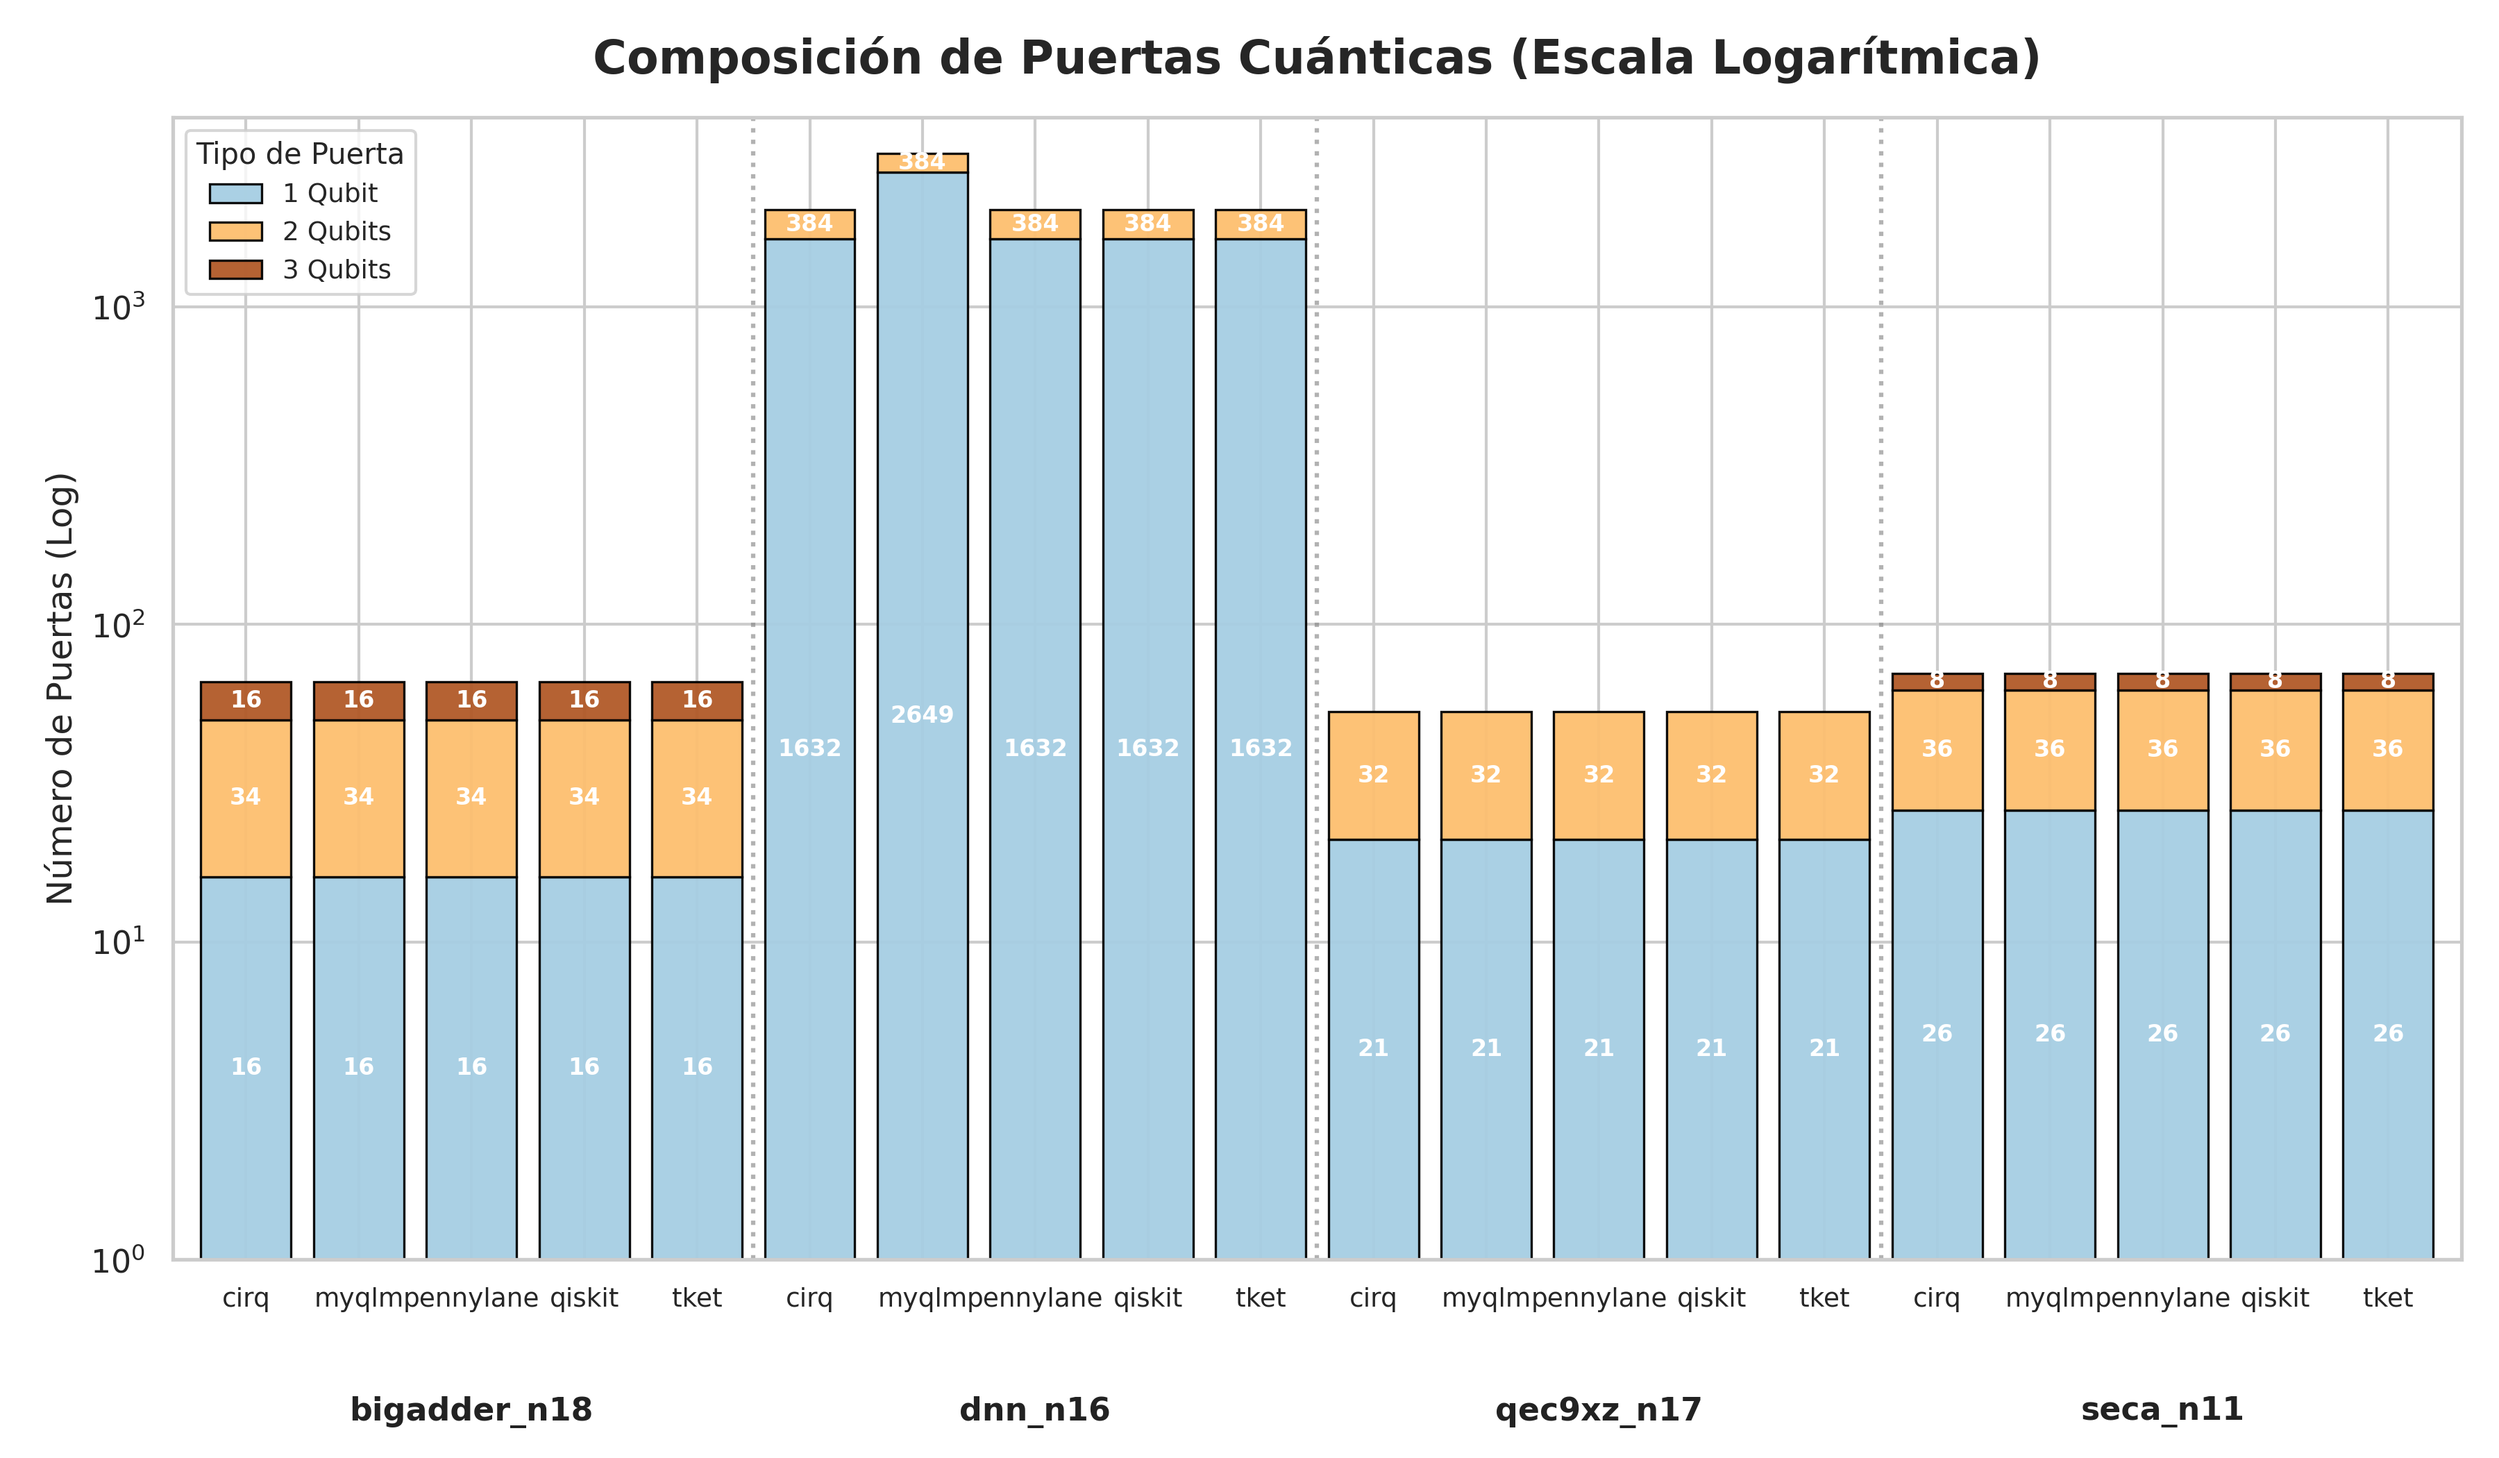
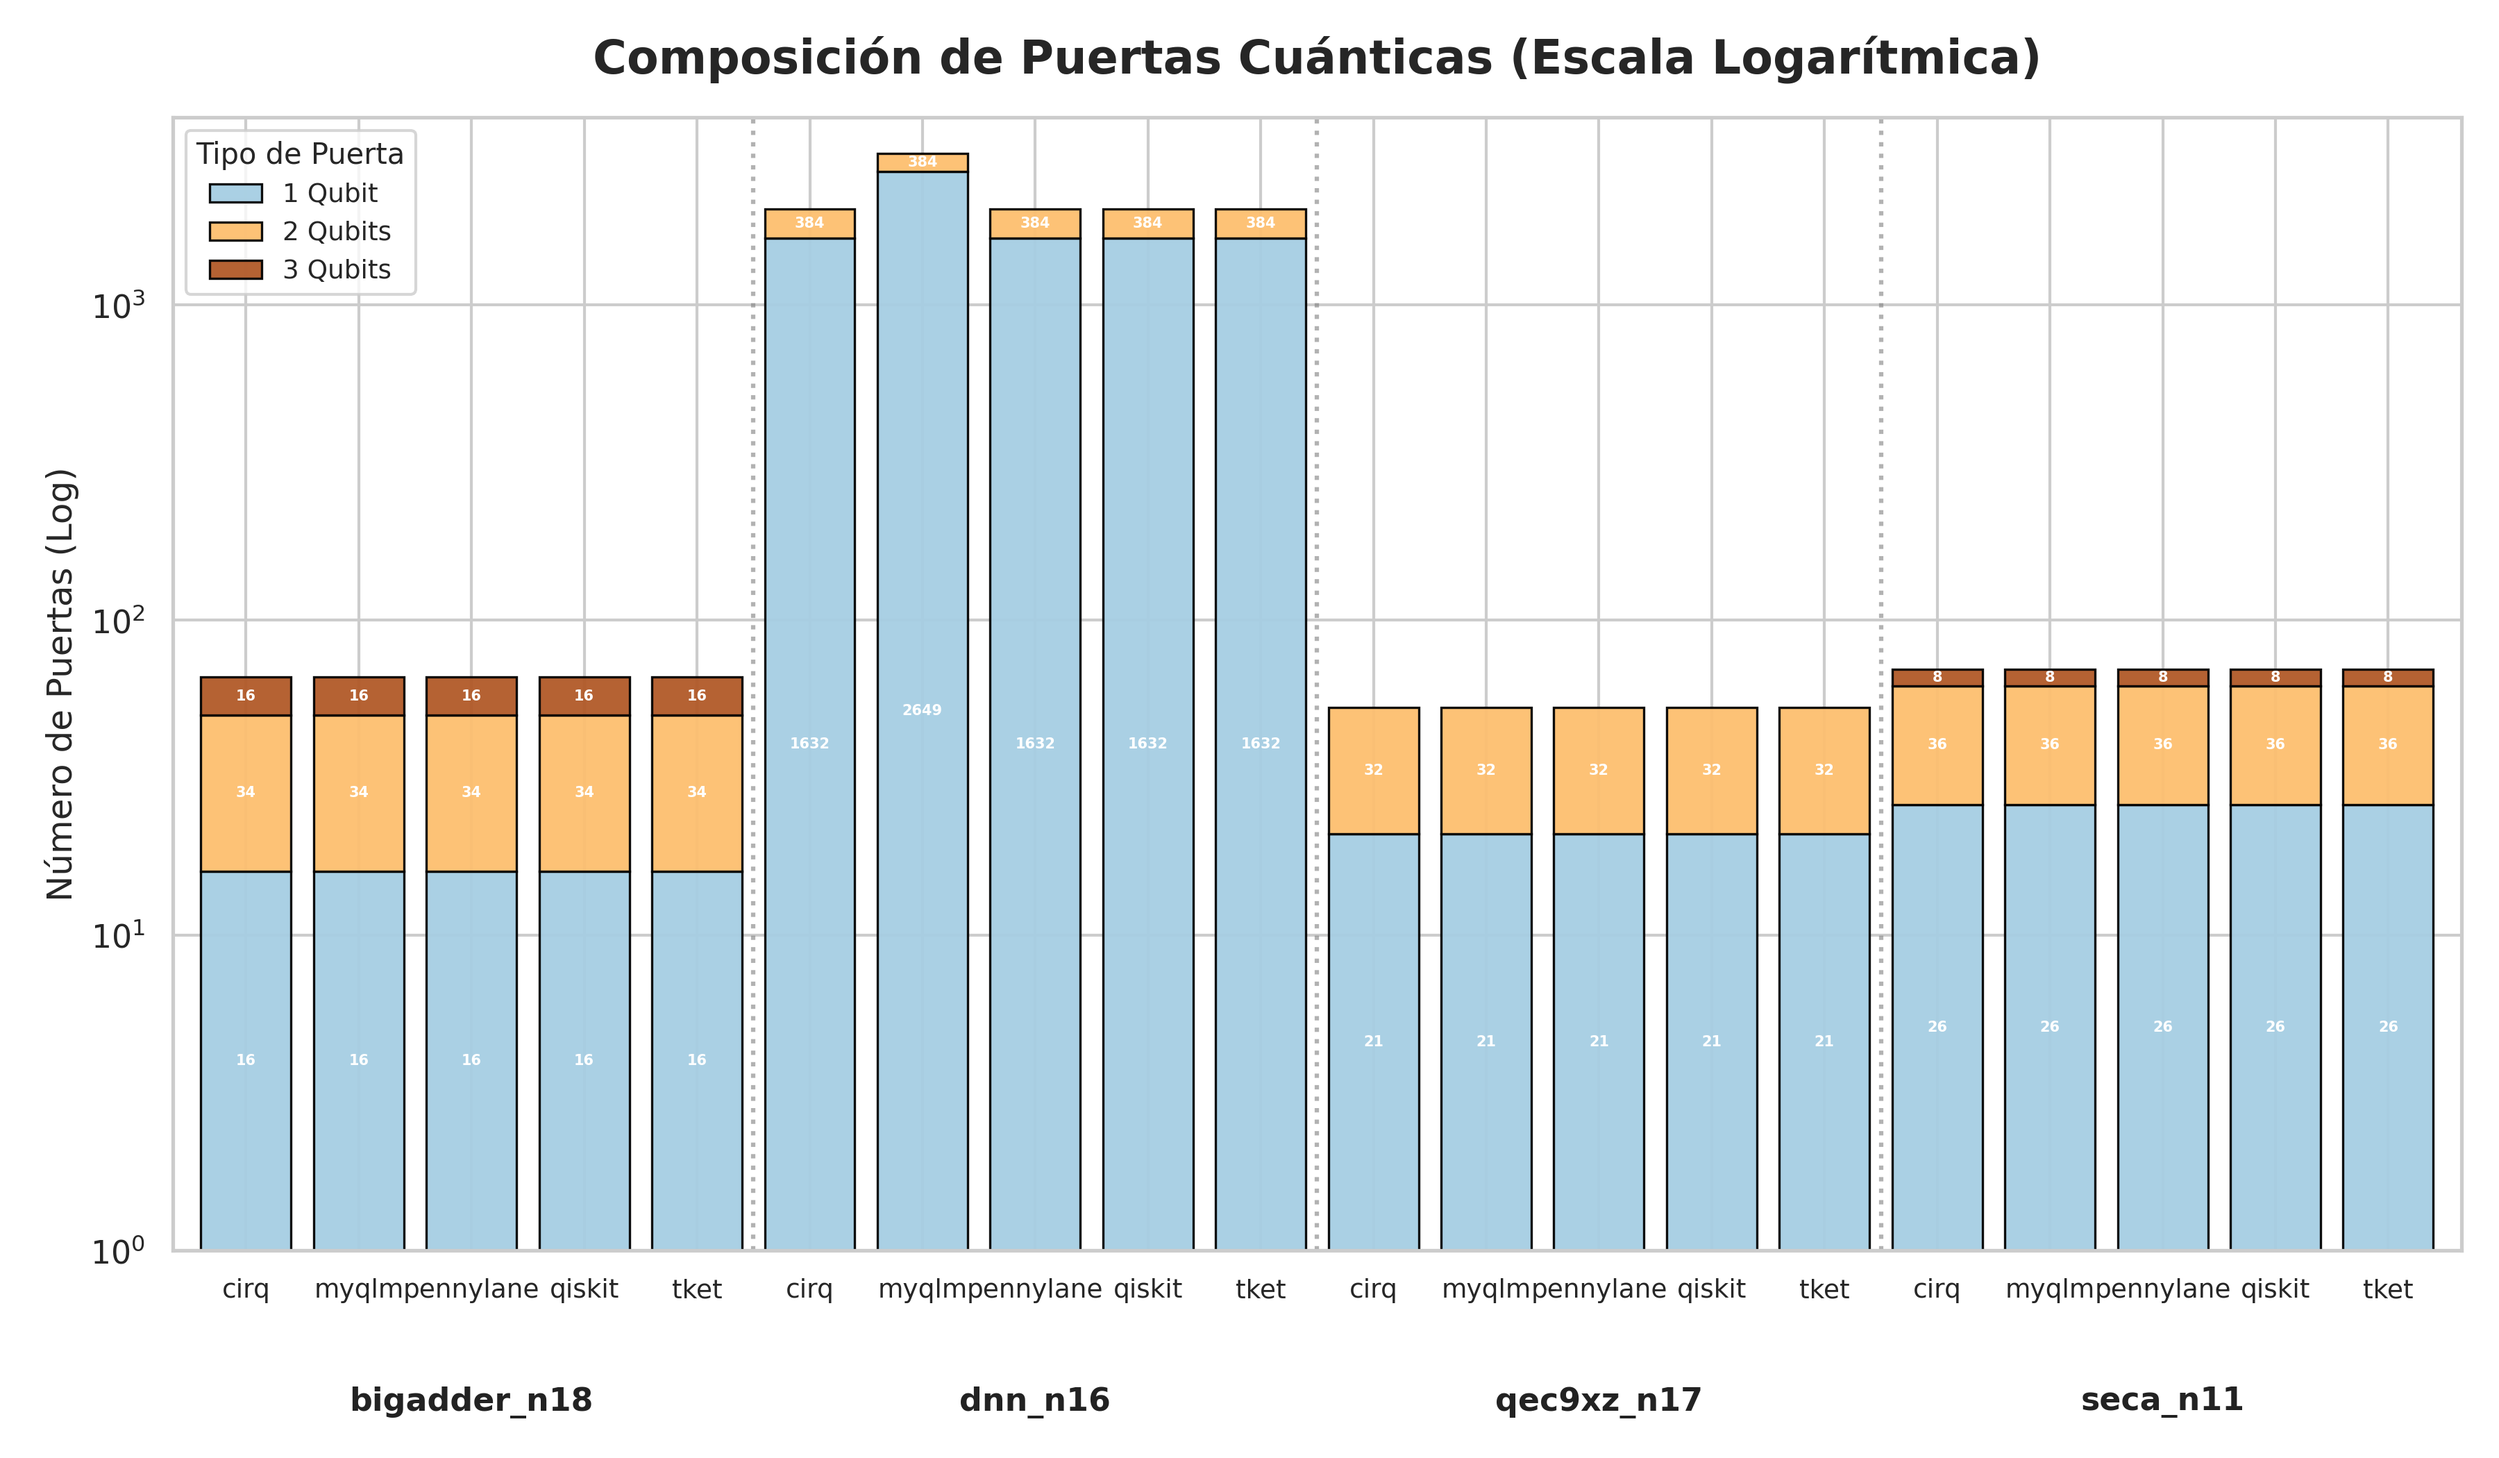
Ajustes de los gráficos

diff --git a/graficar_results.py b/graficar_results.py
@@ -447,10 +447,10 @@ def plot_gate_composition(df):
     # Añadir valores numéricos dentro de las barras
     for c in ax.containers:
         labels = [int(v) if v > 0 else "" for v in c.datavalues]
-        ax.bar_label(c, labels=labels, label_type='center', fontsize=8, color='white', weight='bold')
+        ax.bar_label(c, labels=labels, label_type='center', fontsize=5, color='white', weight='bold')
 
     # Ajuste de márgenes inferior
-    plt.subplots_adjust(bottom=0.15)
+    plt.subplots_adjust(bottom=0.1)
     
     plt.tight_layout()
     plt.savefig(OUTPUT_IMAGE_GATES, dpi=300)
